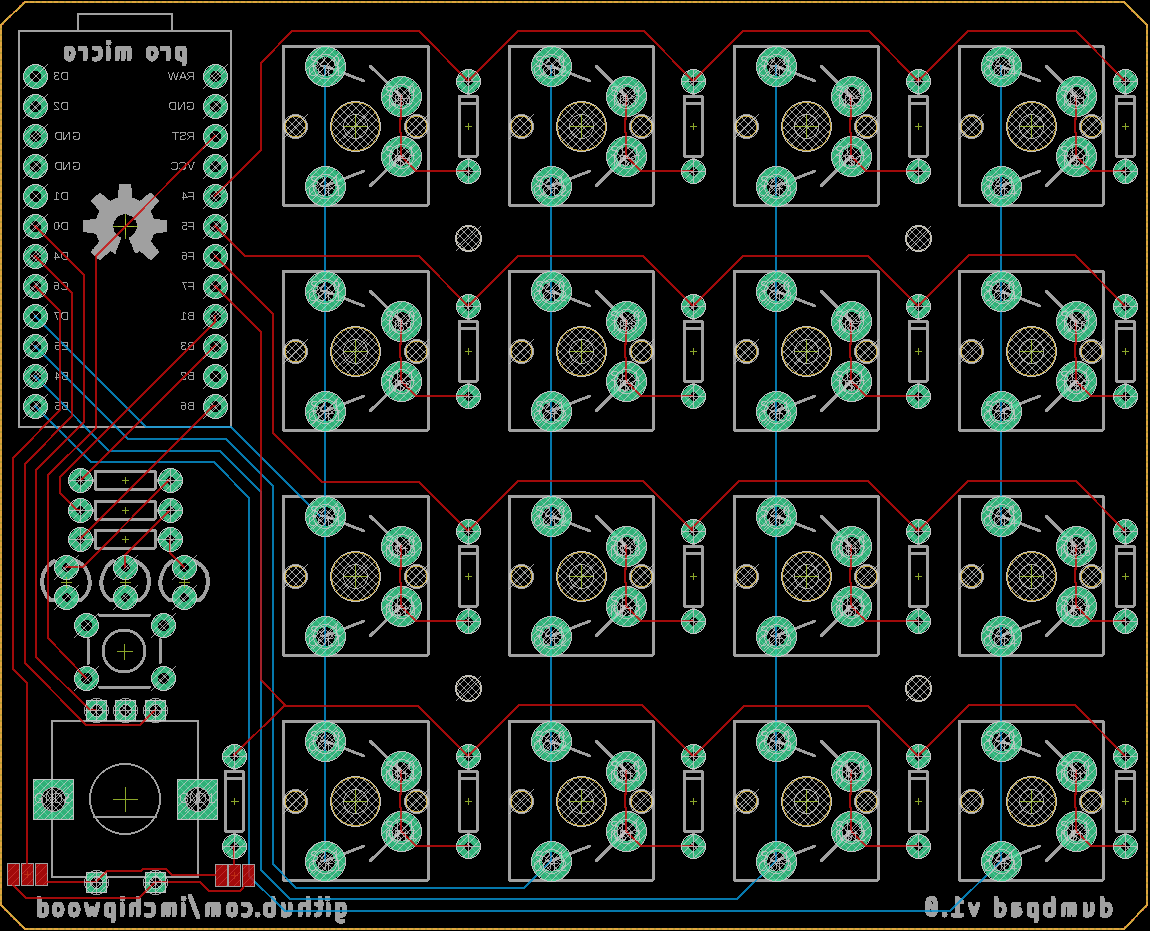
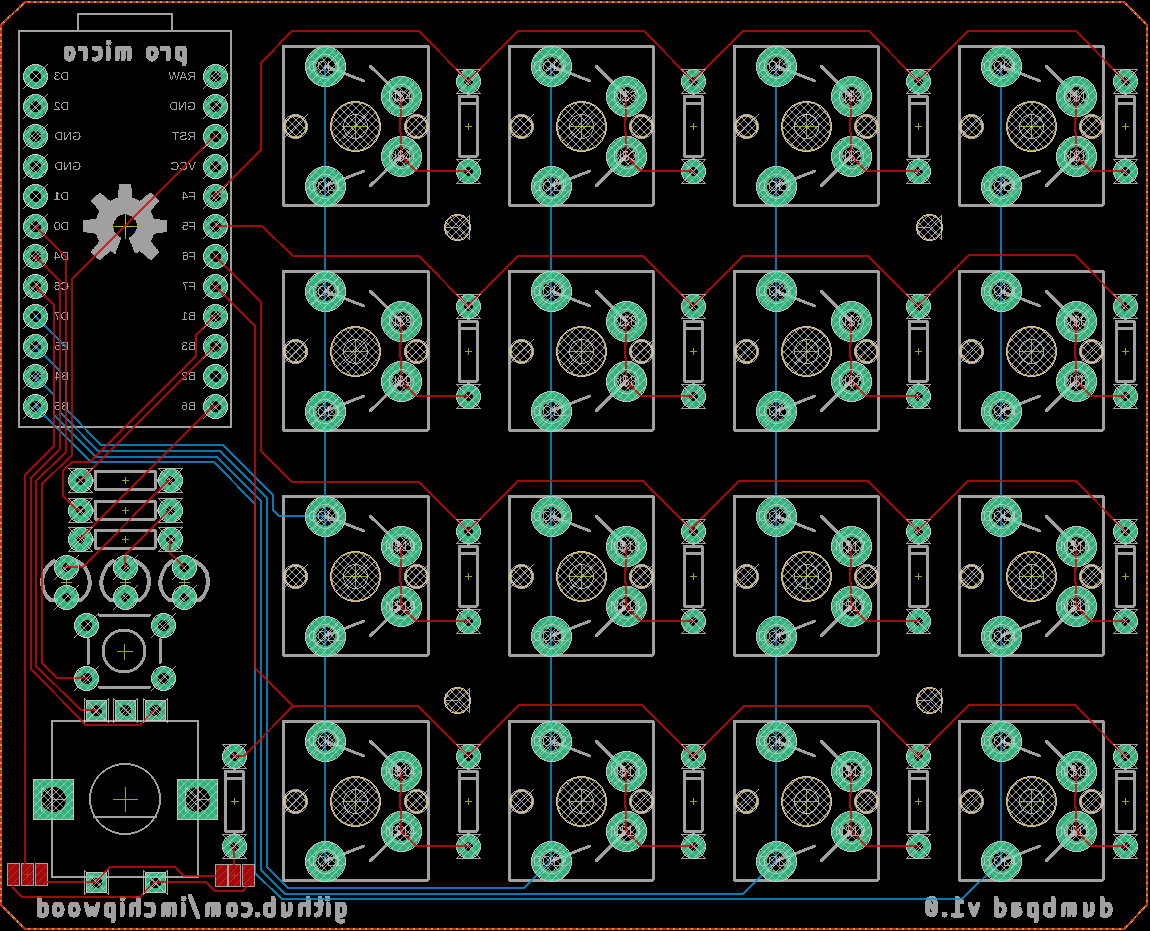
changed mounting holes to 40mm square

diff --git a/README.md b/README.md
@@ -34,11 +34,11 @@ It is designed to run [QMK firmware](https://github.com/qmk/qmk_firmware) - chec
 * (optional) 3x 330ohm or similar resistors for the LEDS (not needed if not adding LEDs)
 
 #### Notes
-- No case is currently available, but v1.0 has mounting holes in a 38.1mm square at these positions (from bottom left of PCB):
-  - 39.525, 58.475
-  - 39.525, 20.375
-  - 77.625, 58.475
-  - 77.625, 20.375
+- No case is currently available, but v1.0 has 2mm mounting holes in a 40mm square centered at x=58.575mm, y=39.425mm (from the bottom left)
+  - 38.575, 19.425
+  - 38.575, 59.425
+		- 78.575, 19.425
+		- 78.575, 59.425
 - To avoid damaging the PCB and prevent it from sliding around, put rubber feet on the bottom of the PCB
   - place feet directly under the rotary encoder(s) as they take significant force to press
   - place the others in the corners and one in the center
